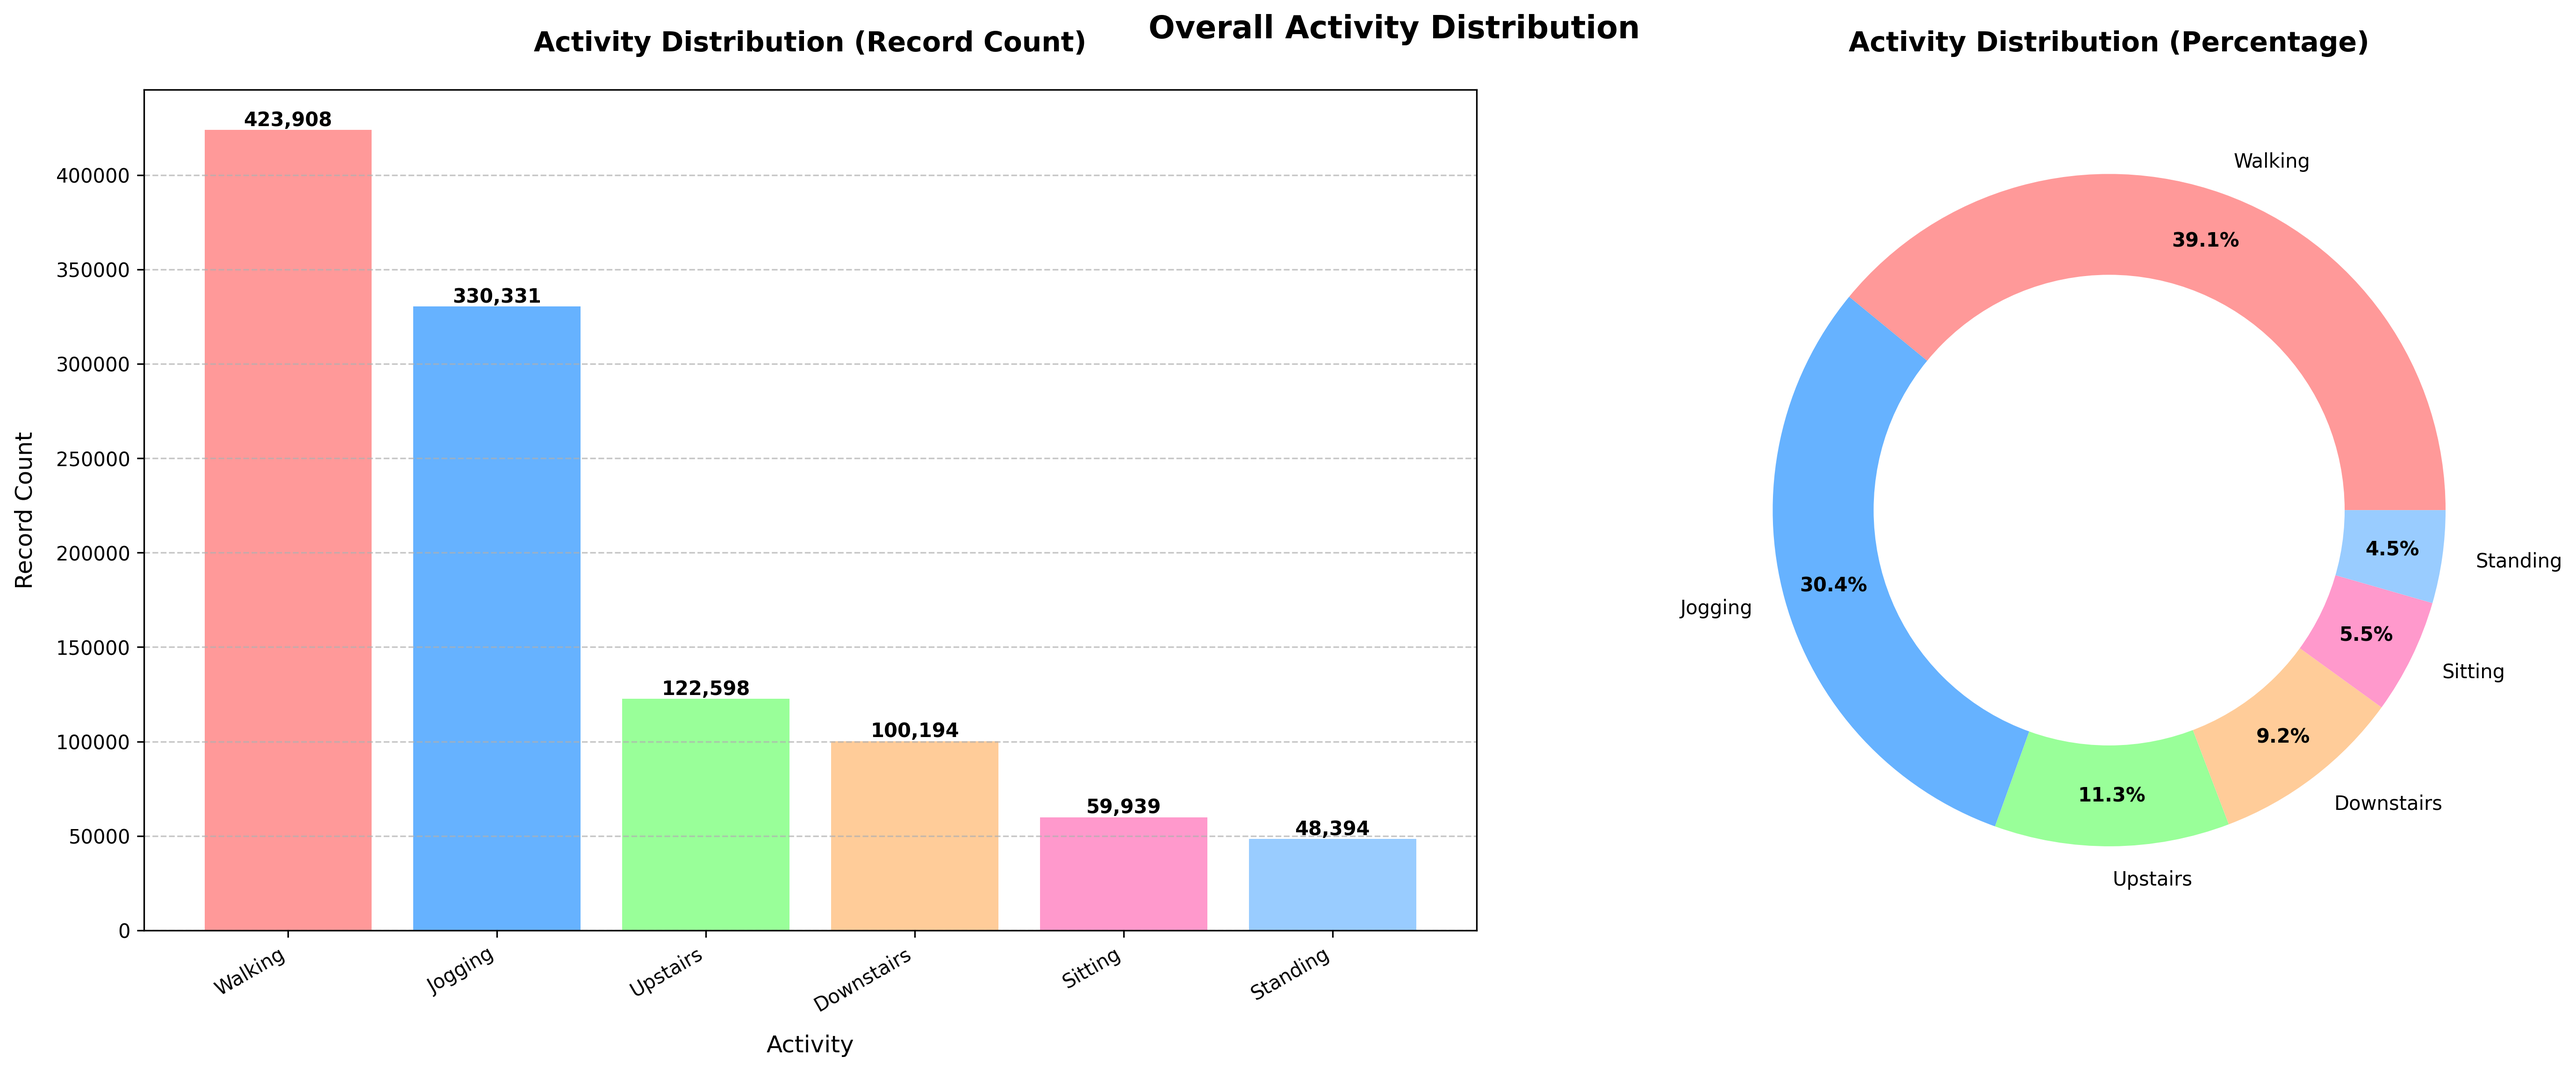
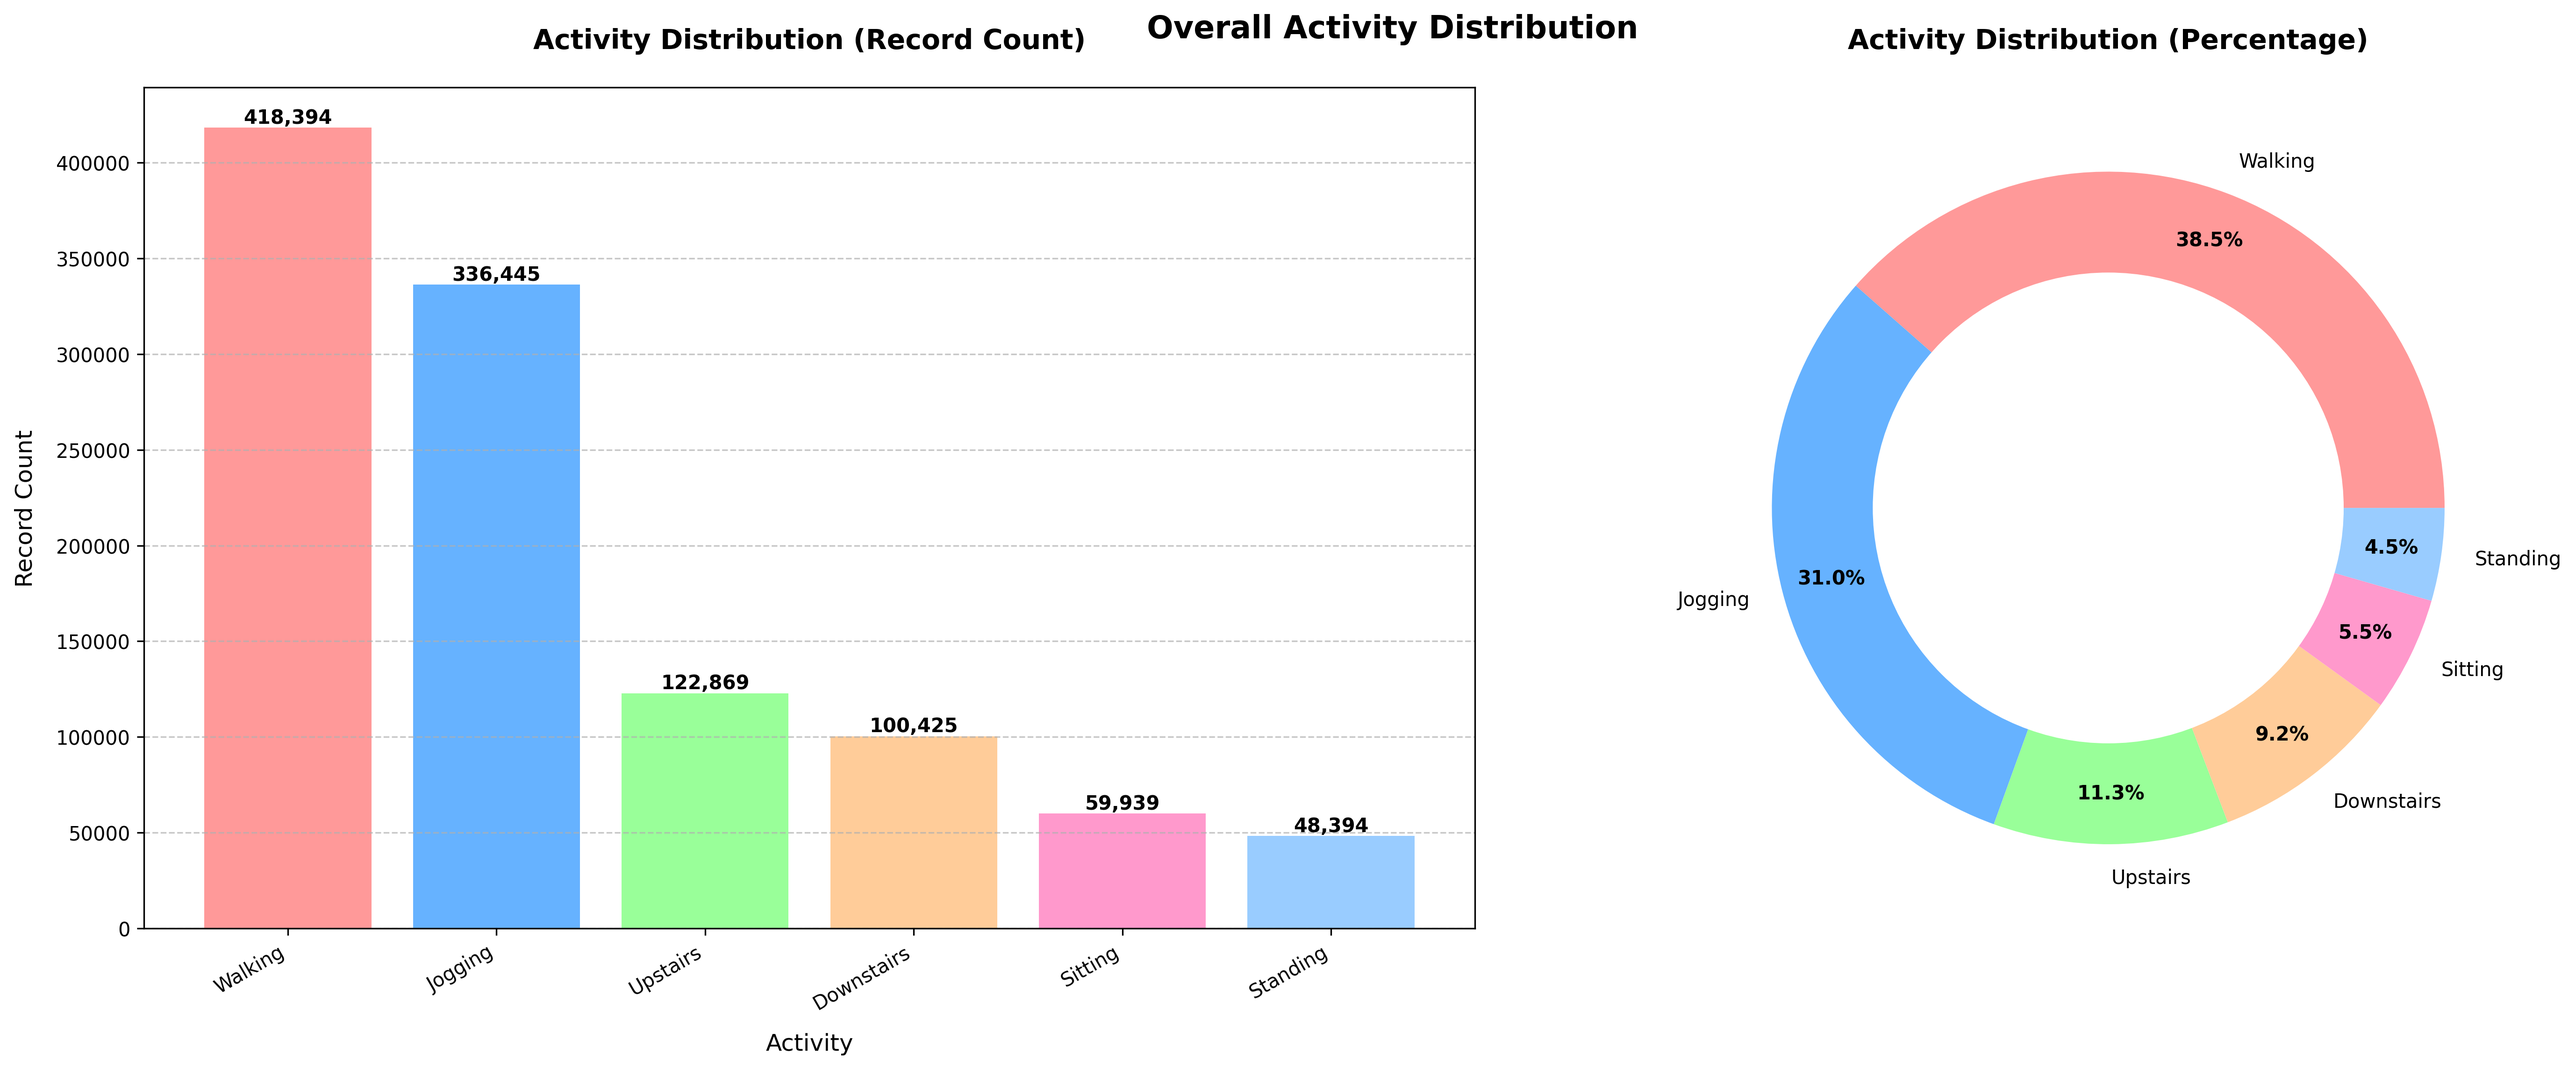
Update overall_activity_distribution.py for enhanced visualizations and data handling. Introduce a new color palette, modify data loading to use the clean_data function, and improve chart labeling for better clarity. Save updated visual output as a new image file.

diff --git a/overall_activity_distribution.py b/overall_activity_distribution.py
@@ -1,22 +1,22 @@
 import pandas as pd
 import matplotlib.pyplot as plt
+from clean_wisdm import clean_data
 
 # Türkçe karakter desteği için
 plt.rcParams["font.family"] = "DejaVu Sans"
 
-# Renk paleti tanımlama
-colors = ["#FF9999", "#66B2FF", "#99FF99", "#FFCC99", "#FF99CC", "#99CCFF"]
+# Modern ve soft renk paleti
+colors = ["#FF9999", "#66B2FF", "#99FF99", "#FFCC99", "#FF99CC", "#99CCFF", "#D4A5A5", "#A5D4B5"]
 
-# Read the dataset
-columns = ["user", "activity", "timestamp", "x-acceleration", "y-accel", "z-accel"]
-data = pd.read_csv("dataset.csv", names=columns)
+data = clean_data("WISDM_ar_v1.1_raw.csv")
 
-# Create figure with two subplots
+# Aktivite isimleri ve toplamları
+activity_counts = data["activity"].value_counts()
+
 plt.figure(figsize=(20, 8))
 
-# 1. Bar plot for total records
+# 1. Bar plot (adet bazında dağılım)
 plt.subplot(1, 2, 1)
-activity_counts = data["activity"].value_counts()
 bars = plt.bar(activity_counts.index, activity_counts.values, color=colors)
 plt.title("Activity Distribution (Record Count)", size=14, pad=20, weight="bold")
 plt.xlabel("Activity", size=12, labelpad=10)
@@ -24,32 +24,27 @@ plt.ylabel("Record Count", size=12, labelpad=10)
 plt.xticks(rotation=30, ha="right")
 plt.grid(axis="y", linestyle="--", alpha=0.7)
 
-# Add value labels on top of bars
+# Bar üstüne değerleri ekle
 for bar in bars:
     height = bar.get_height()
-    plt.text(bar.get_x() + bar.get_width() / 2.0, height, f"{height:,}", ha="center", va="bottom", size=10, weight="bold")
+    plt.text(bar.get_x() + bar.get_width() / 2.0, height, f"{int(height):,}", ha="center", va="bottom", size=10, weight="bold")
 
-# 2. Pie chart for percentage distribution
+# 2. Pie-Donut chart (yüzde bazında dağılım)
 plt.subplot(1, 2, 2)
-wedges, texts, autotexts = plt.pie(activity_counts.values, labels=activity_counts.index, colors=colors, autopct="%1.1f%%", pctdistance=0.85)
-
-# Enhance text properties
+wedges, texts, autotexts = plt.pie(activity_counts.values, labels=activity_counts.index, colors=colors[: len(activity_counts)], autopct="%1.1f%%", pctdistance=0.85)
 plt.setp(autotexts, size=10, weight="bold")
 plt.setp(texts, size=10)
 plt.title("Activity Distribution (Percentage)", size=14, pad=20, weight="bold")
-
-# Add a circle at the center to create a donut chart
+# Donut görünümü için merkez çember
 centre_circle = plt.Circle((0, 0), 0.70, fc="white")
 plt.gca().add_artist(centre_circle)
 
-# Add overall title
 plt.suptitle("Overall Activity Distribution", size=16, weight="bold", y=0.95)
-
 plt.tight_layout()
 plt.savefig("overall_activity_distribution1.png", dpi=300, bbox_inches="tight")
 plt.close()
 
-# Print overall summary
+# Konsol özeti
 print("\nOverall Summary:")
 print(f"Total record count: {len(data):,}")
 print("\nActivity distribution:")
